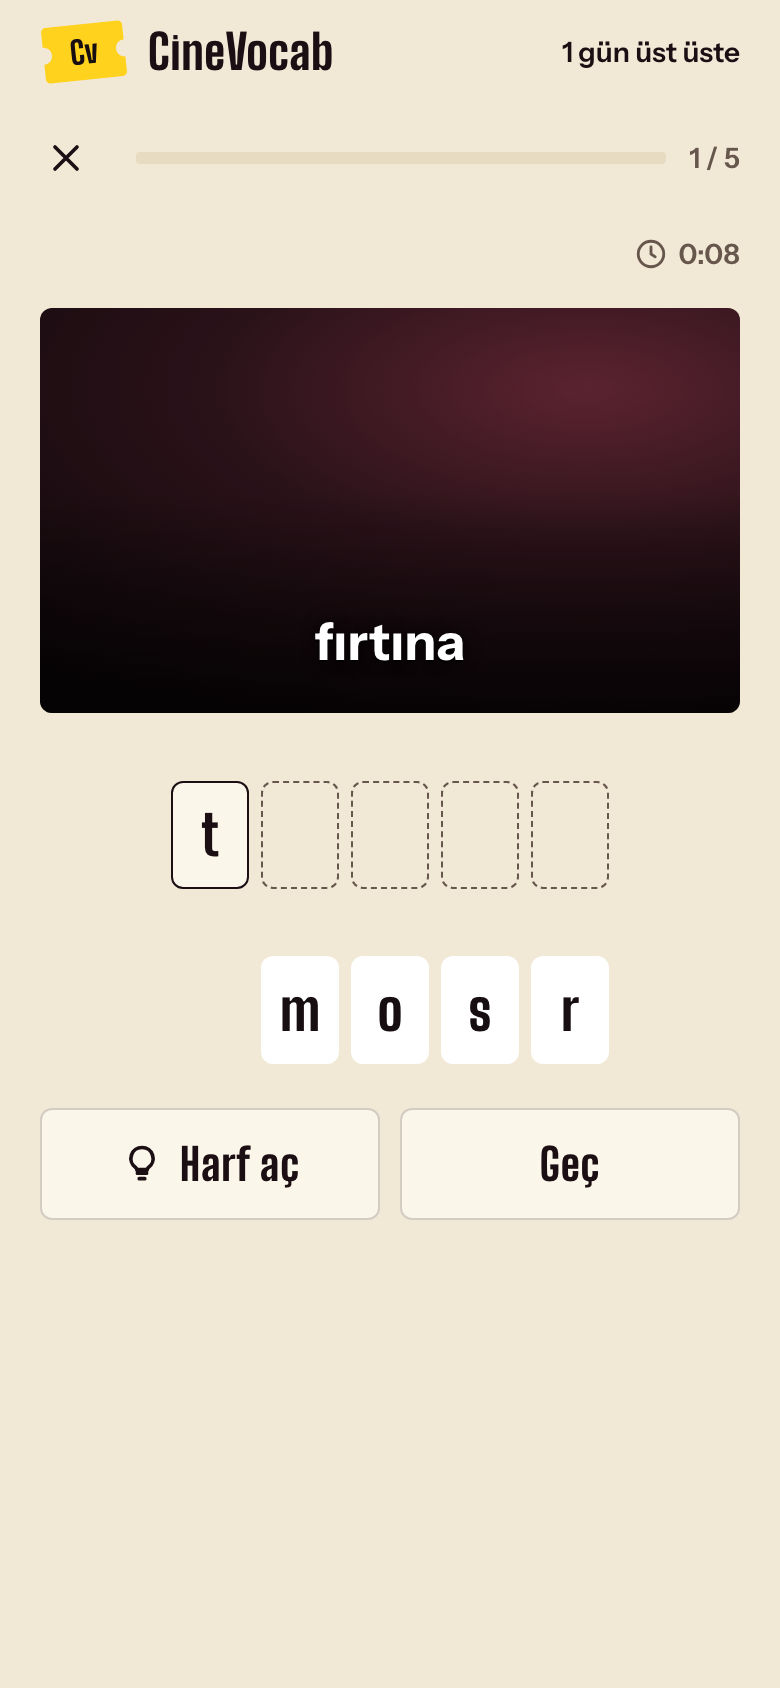
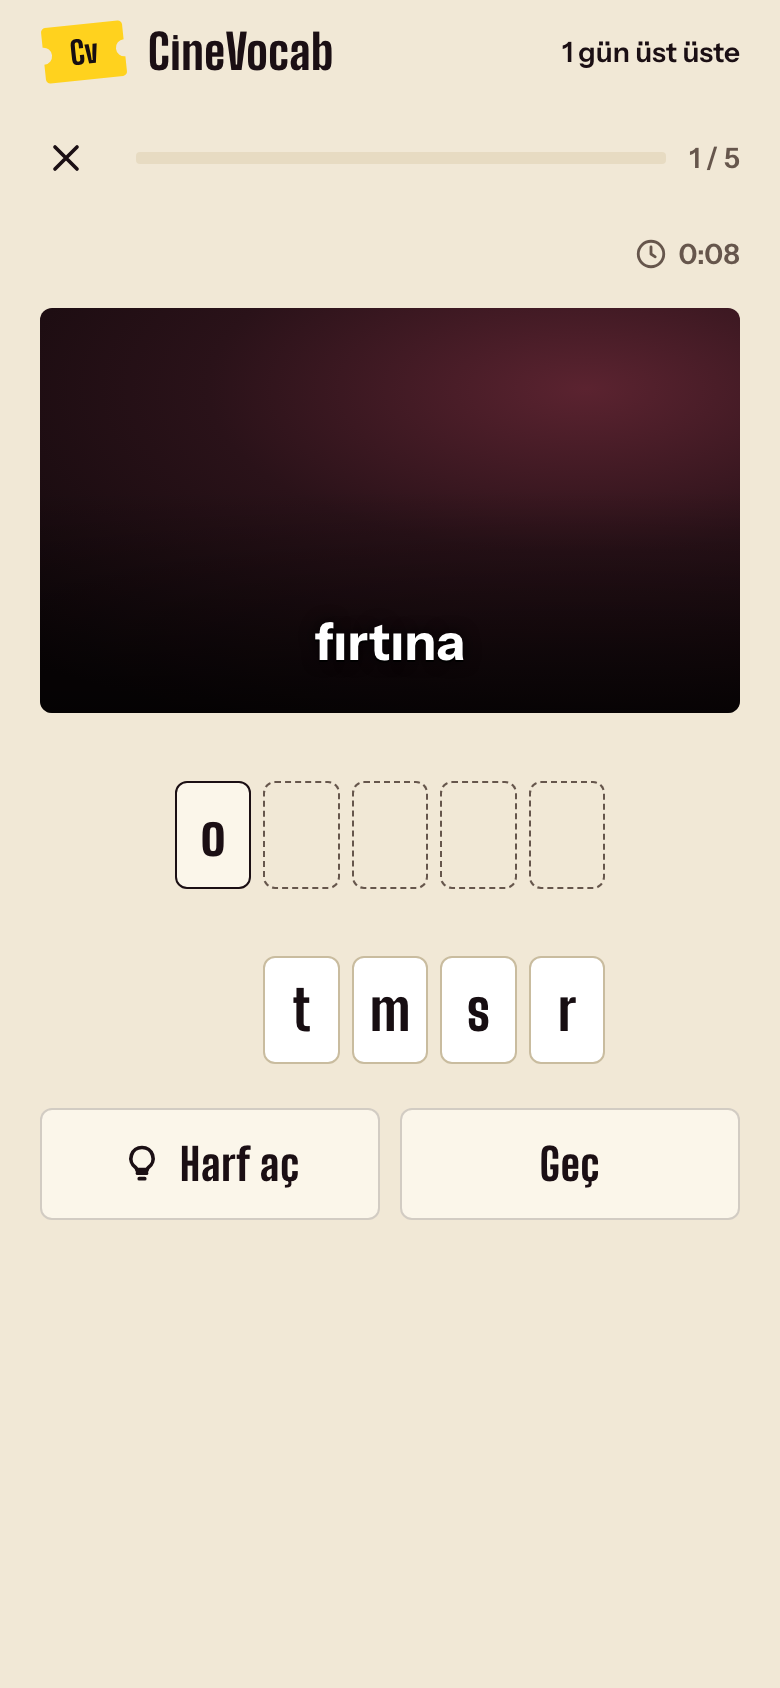
Denetçi bulguları: alt güvenli alan, bulmaca harf genişliği, açık temada kenar ve vurgu, soru karelerinde biçim farkı

diff --git a/www/app.css b/www/app.css
@@ -38,6 +38,8 @@
   --film-cell: #25161C; --film-dim: #AC9C92; --film-on: #F3E9D2; --film-on-ink: #170E12; --film-on-dim: #6B5B52;
   --glow1: #5B2330; --glow2: #2A1219; --glow3: #0C0608; --shade: rgba(0, 0, 0, .6); --shade2: rgba(0, 0, 0, .9); --black: #000;
   --sub: #FFFFFF;       /* karedeki altyazi */
+  --cur: #FFD21E;       /* siradaki soru karesi */
+  --paper-edge: transparent;   /* acik temada beyaz kagidin kenari */
   --r: 6px;
   --disp: "Big Shoulders", "Arial Narrow", system-ui, sans-serif;
   --body: "Instrument Sans", system-ui, -apple-system, "Segoe UI", Roboto, sans-serif;
@@ -49,7 +51,7 @@
   --hi: #8E1B2B;
   --red: #A81C2B; --red-fill: #B3202E;
   --green: #1E6E41; --on-green: #FFFFFF; --amber: #9A5B00;
-  --paper: #FFFFFF; --paper-line: #C9BC9F;
+  --paper: #FFFFFF; --paper-line: #C9BC9F; --cur: #1B0F14; --paper-edge: #C9BC9F;
   color-scheme: light;
 }
 
@@ -74,7 +76,7 @@ button { cursor: pointer; }
 .pill .ic { width: 17px; height: 17px; color: var(--hi); }
 .pill.pop { animation: pop .5s ease; }
 
-main { flex: 1; min-height: 0; overflow-y: auto; overflow-x: hidden; padding: 6px 20px 28px; }
+main { flex: 1; min-height: 0; overflow-y: auto; overflow-x: hidden; padding: 6px 20px calc(28px + env(safe-area-inset-bottom)); }
 h1 { margin: 10px 0 4px; font: 800 40px/.98 var(--disp); letter-spacing: .005em; overflow-wrap: anywhere; }
 h1.display { margin-top: 5vh; font-size: 52px; line-height: .95; }
 h2 { margin: 0; font: 800 24px/1.05 var(--disp); letter-spacing: .01em; overflow-wrap: anywhere; }
@@ -94,7 +96,7 @@ input:focus, select:focus, textarea:focus { border-color: var(--hi); }
 input::placeholder, textarea::placeholder { color: var(--dim); opacity: .7; }
 main > section > input[type=search] { margin-top: 12px; background: var(--surf); }
 .btn { display: flex; align-items: center; justify-content: center; gap: 8px; width: 100%; min-height: 56px; margin-top: 12px; padding: 10px 16px;
-  background: var(--sun); color: var(--on-sun); border: 1px solid var(--sun); border-radius: var(--r); font: 800 22px/1.05 var(--disp); letter-spacing: .02em; transition: transform .08s; }
+  background: var(--sun); color: var(--on-sun); border: 1px solid var(--sun); border-radius: var(--r); font: 800 22px/1.05 var(--disp); letter-spacing: .02em; overflow-wrap: anywhere; transition: transform .08s; }
 .btn:active { transform: scale(.985); }
 .btn:disabled { opacity: .45; }
 .btn.ghost, .btn.no { background: var(--surf); color: var(--ink); border-color: var(--line); }
@@ -109,7 +111,7 @@ main > section > input[type=search] { margin-top: 12px; background: var(--surf);
 .seg button[aria-pressed=true] { background: var(--ink); color: var(--bg); }
 .code { display: block; margin: 12px 0 4px; padding: 14px; background: var(--bg); border: 1px dashed var(--ink); border-radius: var(--r); text-align: center; font: 700 20px/1.2 ui-monospace, monospace; letter-spacing: .08em; overflow-wrap: anywhere; }
 #aCode, #dCode { text-align: center; font: 800 30px/1 var(--disp); letter-spacing: .3em; }
-.legal { margin: 14px 2px 0; font-size: 13px; color: var(--dim); text-align: center; } .legal a { color: var(--ink); }
+.legal { margin: 14px 2px 0; font-size: 13px; color: var(--dim); text-align: center; } .legal a { display: inline-block; min-height: 44px; padding: 12px 4px; color: var(--ink); }
 .check { display: flex; align-items: center; gap: 12px; min-height: 44px; margin: 0; font-size: 16px; font-weight: 400; color: var(--ink); }
 .check input { flex: none; width: 24px; min-height: 24px; height: 24px; padding: 0; accent-color: var(--sun); }
 .bar { height: 6px; margin-top: 8px; background: var(--surf2); border-radius: 2px; overflow: hidden; }
@@ -182,7 +184,7 @@ main > section > input[type=search] { margin-top: 12px; background: var(--surf);
 .lang { display: grid; grid-template-columns: 1fr auto 1fr; gap: 8px; align-items: end; }
 .swap { display: grid; place-items: center; width: 48px; height: 48px; padding: 0; background: var(--bg); border: 1px solid var(--line); border-radius: var(--r); }
 .chips { display: flex; flex-wrap: wrap; gap: 8px; margin-top: 12px; }
-.chip { min-height: 44px; padding: 5px 14px; background: var(--surf2); border: 1px solid transparent; border-radius: var(--r); font-size: 15px; font-weight: 600; }
+.chip { min-width: 44px; min-height: 44px; padding: 5px 14px; background: var(--surf2); border: 1px solid transparent; border-radius: var(--r); font-size: 15px; font-weight: 600; }
 .chip[aria-pressed=false] { background: none; border: 1px dashed var(--line); color: var(--dim); text-decoration: line-through; }
 #v-add.form #packBox { display: none; }
 #pick { margin-top: 10px; }
@@ -194,8 +196,8 @@ textarea { min-height: 132px; resize: vertical; line-height: 1.4; }
 .tile:disabled, #v-how .tile:disabled { opacity: .5; }
 .tile > i { display: grid; place-items: center; flex: none; width: 44px; height: 44px; border-radius: var(--r); background: var(--surf2); color: var(--ink); }
 .tile > i .ic { width: 24px; height: 24px; }
-.tile span { flex: 1; min-width: 0; } .tile b { display: block; font: 800 22px/1.05 var(--disp); letter-spacing: .01em; } .tile em { display: block; margin-top: 3px; font-style: normal; font-size: 13px; color: var(--dim); }
-.tile.hot { border-color: var(--sun); } .tile.hot > i { background: var(--sun); color: var(--on-sun); }
+.tile span { flex: 1; min-width: 0; } .tile b { display: block; font: 800 22px/1.05 var(--disp); letter-spacing: .01em; overflow-wrap: anywhere; } .tile em { display: block; margin-top: 3px; font-style: normal; font-size: 13px; color: var(--dim); }
+.tile.hot { border-color: var(--hi); } .tile.hot > i { background: var(--sun); color: var(--on-sun); }
 
 /* soru: film karesi ve altyazi */
 .qtop { display: flex; align-items: center; justify-content: space-between; gap: 10px; min-height: 30px; margin-top: 10px; font-size: 14px; font-weight: 600; color: var(--dim); }
@@ -204,7 +206,7 @@ textarea { min-height: 132px; resize: vertical; line-height: 1.4; }
 .qbar { display: flex; align-items: center; gap: 12px; margin-left: -10px; font-size: 14px; font-weight: 600; color: var(--dim); }
 .qbar .bar { flex: 1; margin-top: 0; }
 .ticks { flex: 1; display: flex; gap: 3px; } .ticks i { flex: 1; height: 6px; border-radius: 1px; background: var(--surf2); }
-.ticks .past { background: var(--dim); } .ticks .ok { background: var(--green); } .ticks .no { background: var(--red-fill); } .ticks .cur { background: var(--sun); }
+.ticks { align-items: center; } .ticks .past { background: var(--dim); } .ticks .ok { background: var(--green); } .ticks .no { height: 2px; background: var(--red-fill); } .ticks .cur { height: 10px; background: var(--cur); }   /* renk yaninda bicim: yanlis ince, siradaki kalin */
 .screen.tall { min-height: 0; aspect-ratio: 1.6 / 1; margin-top: 8px; }
 .q { margin: 20px 0 0; font-size: 17px; color: var(--dim); } .q:empty { display: none; }
 .q + .opts { margin-top: 12px; }
@@ -245,13 +247,13 @@ textarea { min-height: 132px; resize: vertical; line-height: 1.4; }
 .big-marks { display: flex; justify-content: center; margin-top: 12px; gap: 6px; } .big-marks i { width: 26px; height: 26px; border-radius: 4px; } .big-marks:empty { display: none; }
 .slots, .tiles { display: flex; flex-wrap: wrap; justify-content: center; gap: 6px; }
 .slots { margin-top: 4vh; } .tiles { margin-top: 4vh; min-height: 58px; }
-.slot, .tilebtn { flex: none; width: min(46px, calc((100vw - 78px) / 8)); height: 54px; padding: 0; border-radius: var(--r); font: 800 28px/1 var(--disp); text-align: center; }
+.slot, .tilebtn { flex: none; width: min(46px, calc((100vw - 84px) / 8)); height: 54px; padding: 0; border-radius: var(--r); font: 800 28px/1 var(--disp); text-align: center; }
 .slot { border: 1px dashed var(--dim); background: none; }
 .slot.full { border-style: solid; border-color: var(--ink); background: var(--surf); }
 .slot.lock { background: var(--sun); border-color: var(--sun); color: var(--on-sun); }
 .slots.good .slot { border-style: solid; border-color: var(--green); background: var(--green); color: var(--on-green); animation: pop .35s ease; }
 .slots.bad { animation: shake .3s ease; } .slots.bad .slot.full:not(.lock) { background: var(--red-fill); border-color: var(--red-fill); color: var(--on-red); }
-.tilebtn { border: 0; background: var(--paper); color: var(--on-paper); }
+.tilebtn { border: 1px solid var(--paper-edge); background: var(--paper); color: var(--on-paper); }
 .tilebtn:active { transform: scale(.94); }
 .tilebtn.used { visibility: hidden; }
 .slot:disabled, .tilebtn:disabled { opacity: 1; }
@@ -273,7 +275,7 @@ textarea { min-height: 132px; resize: vertical; line-height: 1.4; }
 
 /* profil */
 .profile { display: flex; align-items: center; gap: 14px; margin-top: 8px; }
-.avatar { display: grid; place-items: center; flex: none; width: 72px; height: 72px; border-radius: 50%; background: var(--paper); color: var(--on-paper); font: 800 38px/1 var(--disp); transform: rotate(-5deg); }
+.avatar { border: 1px solid var(--paper-edge); display: grid; place-items: center; flex: none; width: 72px; height: 72px; border-radius: 50%; background: var(--paper); color: var(--on-paper); font: 800 38px/1 var(--disp); transform: rotate(-5deg); }
 .who { min-width: 0; } .who h1 { margin: 0; font-size: 34px; }
 .rank { margin: 6px 0 0; font-size: 14px; color: var(--dim); }
 .counts { display: grid; grid-template-columns: repeat(3, 1fr); gap: 8px; margin-top: 18px; padding: 14px 0; border-top: 1px solid var(--line); border-bottom: 1px solid var(--line); }
@@ -294,12 +296,12 @@ textarea { min-height: 132px; resize: vertical; line-height: 1.4; }
 #tabs { flex: none; display: grid; grid-template-columns: repeat(5, 1fr); align-items: center; padding: 6px 8px calc(6px + env(safe-area-inset-bottom)); background: var(--nav); border-top: 1px solid var(--line); }
 #tabs button { display: flex; flex-direction: column; align-items: center; justify-content: center; gap: 3px; min-height: 50px; padding: 4px 0; background: none; border: 0; color: var(--dim); font-size: 12px; font-weight: 500; }
 #tabs button[aria-current=page] { color: var(--hi); }
-#tabs .add { justify-self: center; width: 50px; min-height: 50px; height: 50px; border-radius: var(--r); background: var(--paper); color: var(--on-paper); }
+#tabs .add { border: 1px solid var(--paper-edge); justify-self: center; width: 50px; min-height: 50px; height: 50px; border-radius: var(--r); background: var(--paper); color: var(--on-paper); }
 #tabs .add .ic { width: 24px; height: 24px; stroke-width: 2.6; }
 #tabs .add[aria-current=page] { background: var(--sun); color: var(--on-sun); }
 
 #fx { position: fixed; inset: 0; width: 100%; height: 100%; pointer-events: none; z-index: 30; }
-.toast { position: fixed; left: 20px; right: 20px; bottom: calc(84px + env(safe-area-inset-bottom)); z-index: 40; padding: 12px 14px; background: var(--paper); color: var(--on-paper); border-radius: var(--r); text-align: center; font-size: 14px; font-weight: 600; white-space: pre-line; overflow-wrap: anywhere; animation: rise .2s ease both; }
+.toast { border: 1px solid var(--paper-edge); position: fixed; left: 20px; right: 20px; bottom: calc(84px + env(safe-area-inset-bottom)); z-index: 40; padding: 12px 14px; background: var(--paper); color: var(--on-paper); border-radius: var(--r); text-align: center; font-size: 14px; font-weight: 600; white-space: pre-line; overflow-wrap: anywhere; animation: rise .2s ease both; }
 
 /* kelime akisi */
 .fl-x { display: grid; place-items: center; flex: none; width: 46px; height: 46px; background: none; border: 0; border-radius: 50%; color: var(--ink); }
@@ -308,7 +310,7 @@ textarea { min-height: 132px; resize: vertical; line-height: 1.4; }
 .fl-count { flex: 1; text-align: center; }
 #v-flow .qbar { margin-right: -10px; }
 .fl-stage { --run: 0; position: relative; height: 52vh; min-height: 300px; margin-top: 6px; touch-action: none; }
-.fl-card { position: absolute; inset: 0; outline: calc(var(--run) * .6px) solid var(--sun); outline-offset: 3px; transition: outline-width .25s ease; }
+.fl-card { position: absolute; inset: 0; outline: calc(var(--run) * .6px) solid var(--hi); outline-offset: 3px; transition: outline-width .25s ease; }
 .fl-card.in { animation: flIn .28s ease-out; }
 .fl-card.up { transition: transform .24s ease-in, opacity .24s; transform: translateY(-115%) rotate(-3deg); opacity: 0; }
 .fl-card.down { transition: transform .24s ease-in, opacity .24s; transform: translateY(115%) rotate(3deg); opacity: 0; }
@@ -325,7 +327,7 @@ textarea { min-height: 132px; resize: vertical; line-height: 1.4; }
 .guest:active { transform: scale(.99); }
 
 /* gunluk hedef karti: sade, alttan kayar */
-.bonus { position: fixed; left: 20px; right: 20px; bottom: calc(84px + env(safe-area-inset-bottom)); z-index: 41; padding: 16px 18px; background: var(--paper); color: var(--on-paper); border-radius: var(--r); display: grid; gap: 2px; text-align: left; animation: bonusIn .45s cubic-bezier(.2, .8, .2, 1) both; }
+.bonus { border: 1px solid var(--paper-edge); position: fixed; left: 20px; right: 20px; bottom: calc(84px + env(safe-area-inset-bottom)); z-index: 41; padding: 16px 18px; background: var(--paper); color: var(--on-paper); border-radius: var(--r); display: grid; gap: 2px; text-align: left; animation: bonusIn .45s cubic-bezier(.2, .8, .2, 1) both; }
 .bonus b { font-size: 13px; font-weight: 700; line-height: 1.2; color: var(--paper-green); }
 .bonus .bn { font: 800 44px/1 var(--disp); }
 .bonus .bn::after { content: " XP"; font-size: 20px; opacity: .7; }
